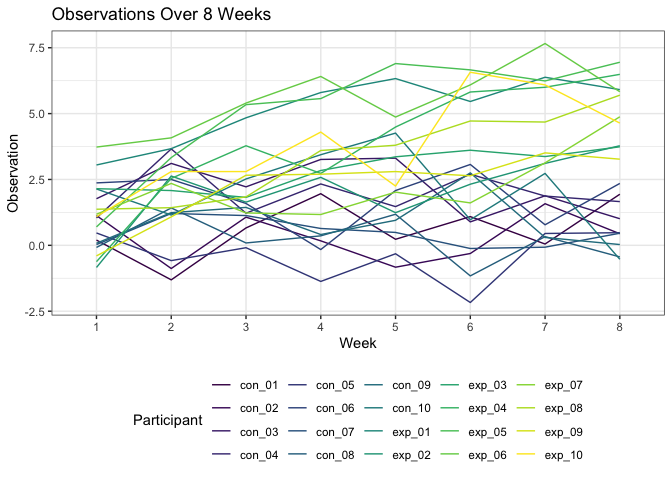
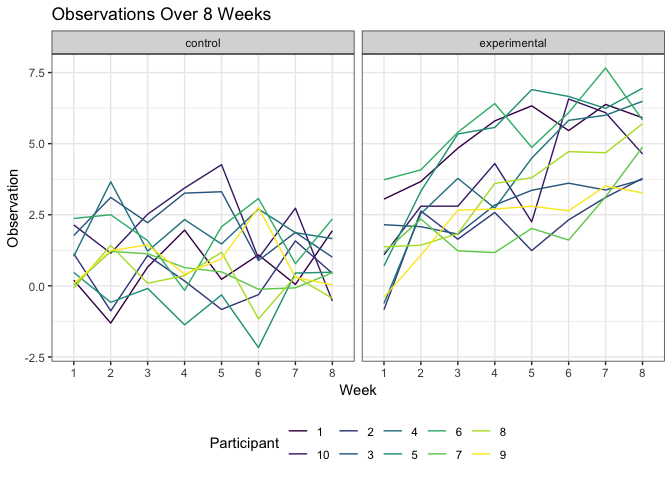
redo plot in problem 1, facet by study arm

diff --git a/p8105_hw5_ms5533.md b/p8105_hw5_ms5533.md
@@ -43,48 +43,23 @@ study_data_tidy =
   mutate(
     subject_id = str_replace(subject_id, "\\.csv", ""),
     subject_id = str_remove(subject_id, "^0+"), 
-    week = str_replace(week, "\\week_", "")) 
+    week = str_replace(week, "\\week_", ""), 
+    study_arm = recode(study_arm, con = "control", exp = "experimental")) 
 
 study_data_tidy
 ## # A tibble: 160 x 4
 ##    study_arm subject_id week  observation
 ##    <chr>     <chr>      <chr>       <dbl>
-##  1 con       1          1            0.2 
-##  2 con       2          1            1.13
-##  3 con       3          1            1.77
-##  4 con       4          1            1.04
-##  5 con       5          1            0.47
-##  6 con       6          1            2.37
-##  7 con       7          1            0.03
-##  8 con       8          1           -0.08
-##  9 con       9          1            0.08
-## 10 con       10         1            2.14
-## # ... with 150 more rows
-
-# version 2 - keeps study arm and subject ID together
-study_data_tidy_2 = 
-  study_data_import %>% 
-  unnest() %>% 
-  gather(key = week, value = observation, week_1:week_8) %>% 
-  rename(subject_id =  file_names) %>% 
-  mutate(
-    subject_id = str_replace(subject_id, "\\.csv", ""),
-    week = str_replace(week, "\\week_", "")) 
-
-study_data_tidy_2
-## # A tibble: 160 x 3
-##    subject_id week  observation
-##    <chr>      <chr>       <dbl>
-##  1 con_01     1            0.2 
-##  2 con_02     1            1.13
-##  3 con_03     1            1.77
-##  4 con_04     1            1.04
-##  5 con_05     1            0.47
-##  6 con_06     1            2.37
-##  7 con_07     1            0.03
-##  8 con_08     1           -0.08
-##  9 con_09     1            0.08
-## 10 con_10     1            2.14
+##  1 control   1          1            0.2 
+##  2 control   2          1            1.13
+##  3 control   3          1            1.77
+##  4 control   4          1            1.04
+##  5 control   5          1            0.47
+##  6 control   6          1            2.37
+##  7 control   7          1            0.03
+##  8 control   8          1           -0.08
+##  9 control   9          1            0.08
+## 10 control   10         1            2.14
 ## # ... with 150 more rows
 ```
 
@@ -92,9 +67,10 @@ study_data_tidy_2
 
 ``` r
 # spaghetti plot showing obs on each subject over time, comment on differences 
-study_data_tidy_2 %>% 
+study_data_tidy %>% 
   ggplot(aes(x = week, y = observation, color = subject_id, group = subject_id)) + 
   geom_line() +
+  facet_grid(~study_arm) +
   labs(
     title = "Observations Over 8 Weeks", 
     x = "Week", 
@@ -105,11 +81,6 @@ study_data_tidy_2 %>%
 
 ![](p8105_hw5_ms5533_files/figure-gfm/unnamed-chunk-3-1.png)<!-- -->
 
-``` r
-# could not figure out how to make plot with separate study arm and subject ID
-# they seem to need to go together as one does not exist without the other
-```
-
 ## Problem 2
 
 The *Washington Post* has gathered data on homicides in 50 large U.S.
@@ -117,3 +88,25 @@ cities and made the data available through a GitHub repository
 [here](https://github.com/washingtonpost/data-homicides). You can read
 their accompanying article
 [here](https://www.washingtonpost.com/graphics/2018/investigations/where-murders-go-unsolved/).
+
+#### Data import
+
+``` r
+wp_homicide_data = read_csv("./data/data-homicides-master/homicide-data.csv")
+```
+
+    ## Parsed with column specification:
+    ## cols(
+    ##   uid = col_character(),
+    ##   reported_date = col_integer(),
+    ##   victim_last = col_character(),
+    ##   victim_first = col_character(),
+    ##   victim_race = col_character(),
+    ##   victim_age = col_character(),
+    ##   victim_sex = col_character(),
+    ##   city = col_character(),
+    ##   state = col_character(),
+    ##   lat = col_double(),
+    ##   lon = col_double(),
+    ##   disposition = col_character()
+    ## )
